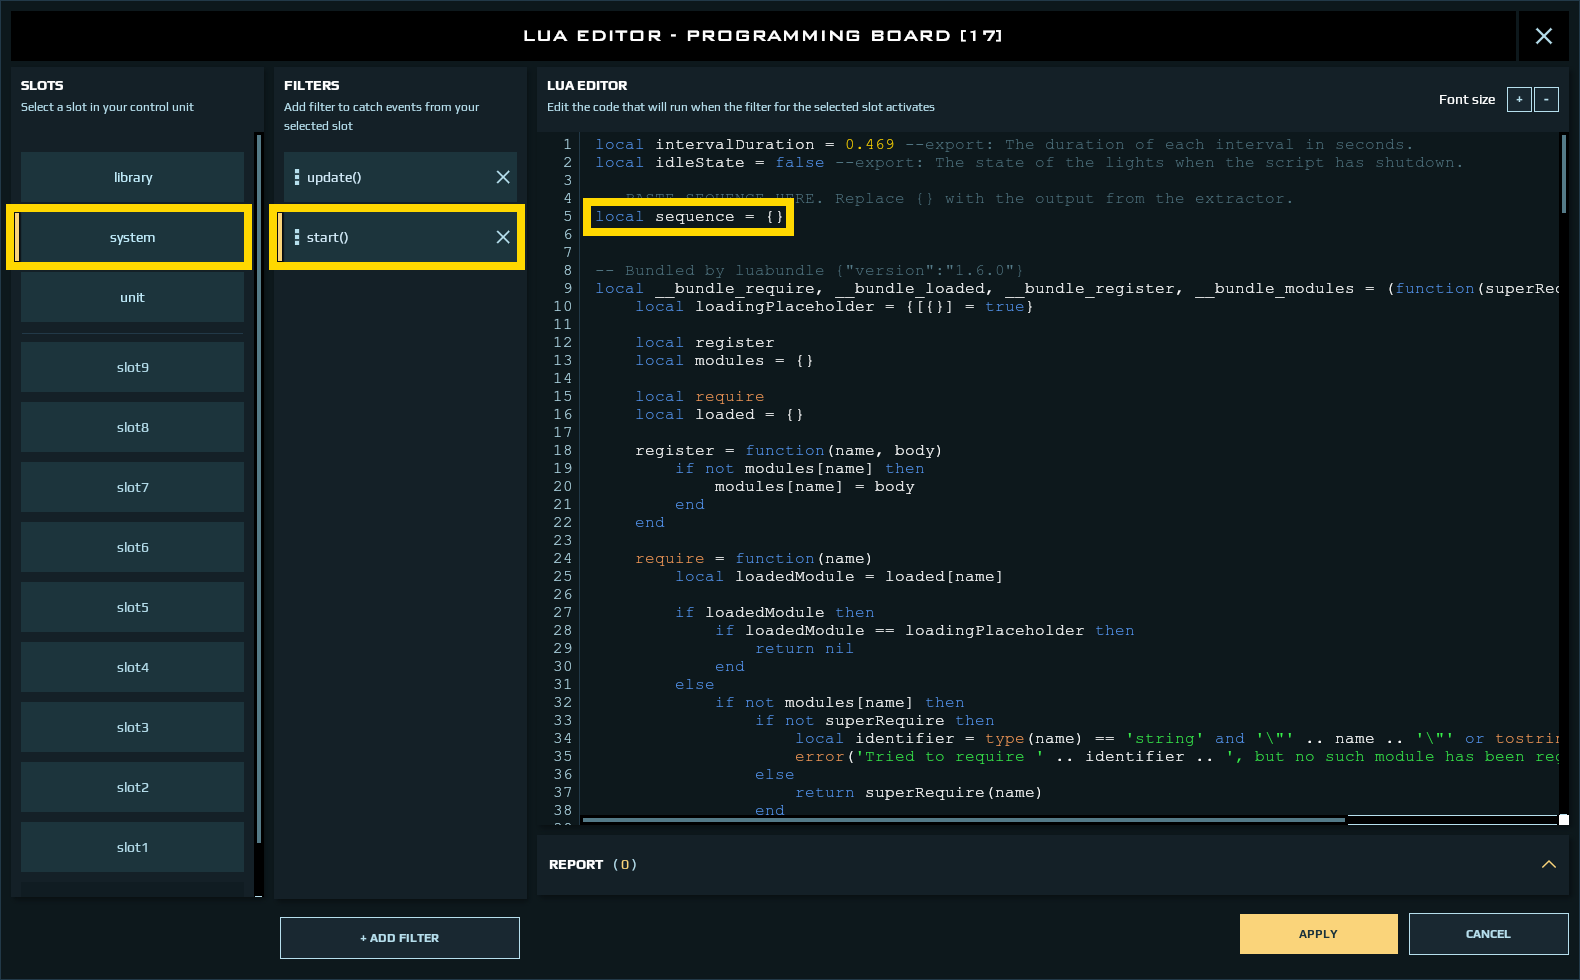
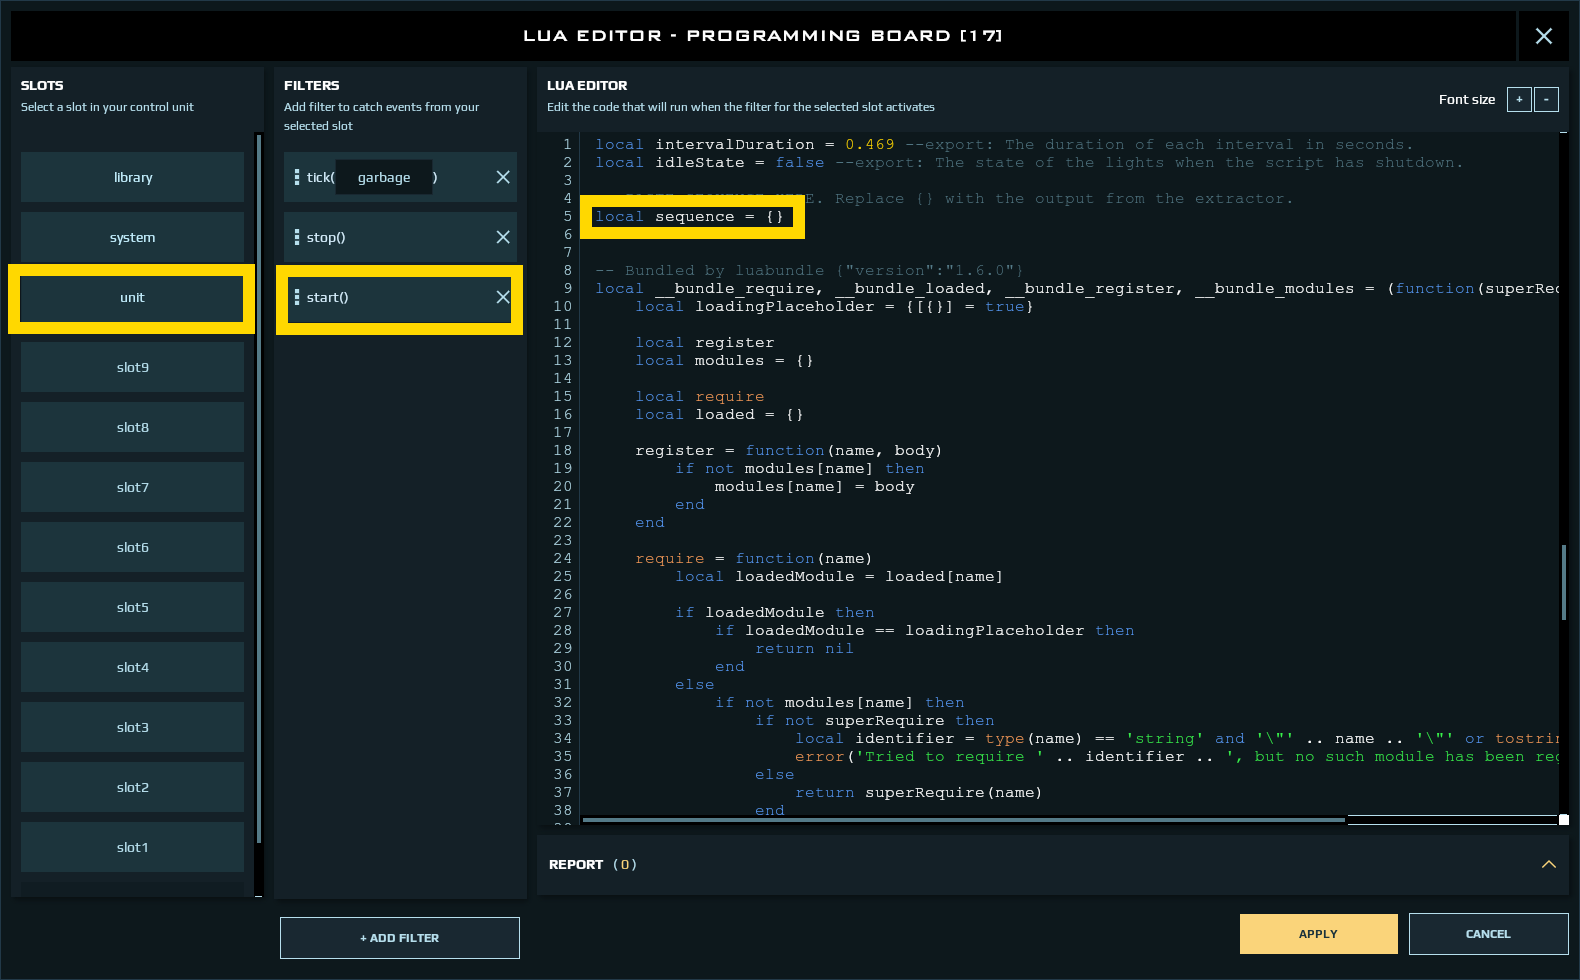
Update README

Changed region(s): [[0.0, 0.1531, 0.3411, 0.3673], [0.3722, 0.1837, 0.5272, 0.2449]]

diff --git a/README.md b/README.md
@@ -155,7 +155,7 @@ You can now close the window.
 Look at the programming board, which is labeled "Sequencer", and press Crtl+L. 
 Alternatively, you can right click the programming board and select "Edit Lua script" in the "Advanced" sub menu.
 
-This should have opened another window. On the left-hand side of the window select "system" and then "start()".
+This should have opened another window. On the left-hand side of the window select "unit" and then "start()".
 
 ![](images/empty_sequence.png)
 
